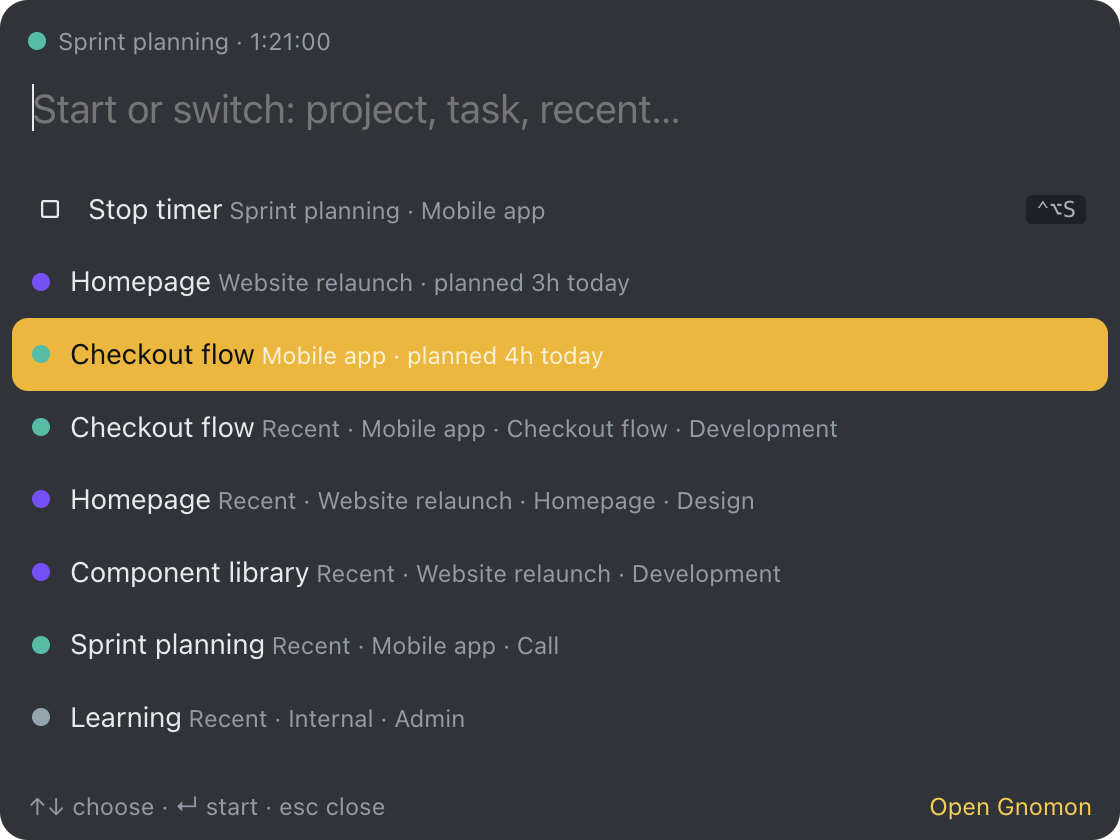
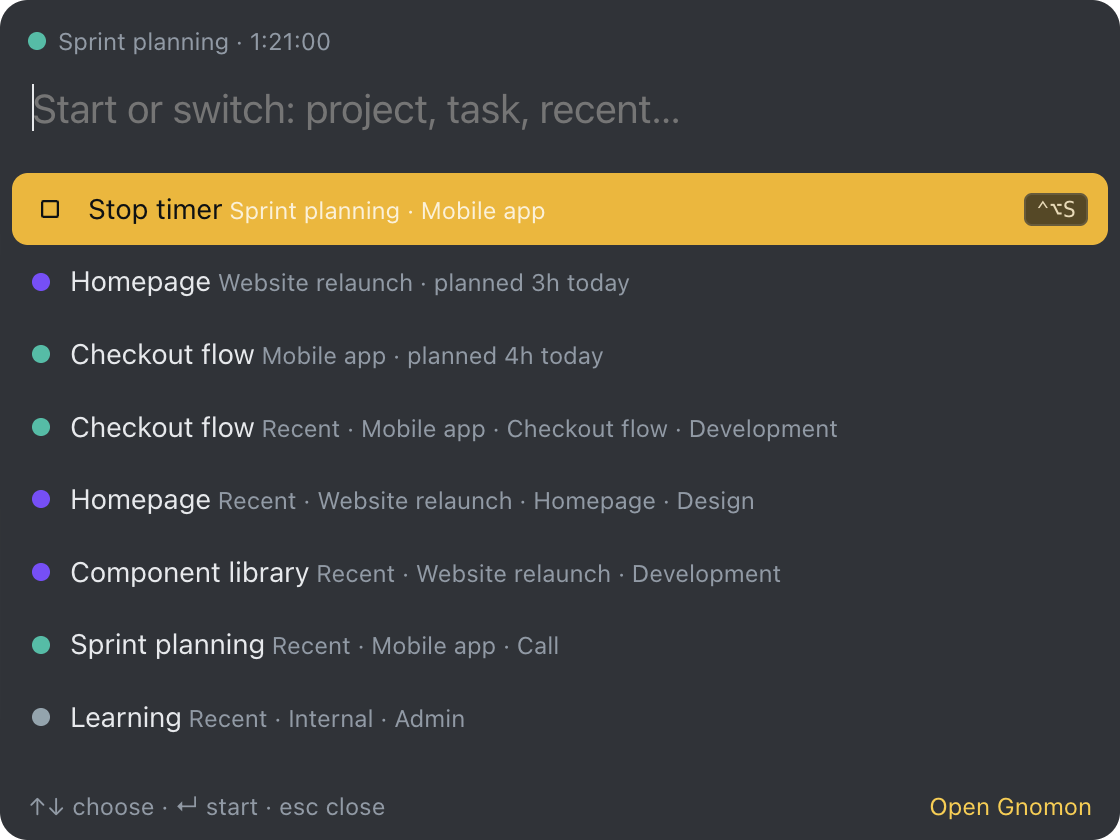
README: dark close-up hero shots for each feature, screenshot gallery below
Adds scripts/hero-shots.cjs (3D tilt + depth of field from the demo screenshots)
and dark variants of the morning, week and phone screenshots.

Changed region(s): [[0.0, 0.1857, 1.0, 0.3095], [0.0, 0.3714, 1.0, 0.4643]]

diff --git a/README.md b/README.md
@@ -5,7 +5,7 @@
 <p align="center"><b>A calm work-hour tracker for your Mac.</b><br>
 Clock in and out, track your projects, catch up later, and always know your overtime balance.</p>
 
-<p align="center"><img src="docs/screenshots/track.png" width="820" alt="Gnomon: the Track page with a running timer, today's plan and entries"></p>
+<p align="center"><img src="docs/hero/hero-timer.jpg" width="880" alt="Gnomon: a running timer, close up"></p>
 
 *A gnomon is the pointer on a sundial, the oldest time-tracking tool there is.*
 
@@ -17,7 +17,7 @@ Your workday in two clicks. Press **Start day** when you sit down, take a **Brea
 from the sidebar, the menu bar or a keyboard shortcut. Forgot to clock out? Gnomon closes the day at midnight and asks
 the next morning when you actually left.
 
-<img src="docs/screenshots/morning.png" width="820" alt="Morning: not clocked in yet, Start day button and today's plan">
+<img src="docs/hero/hero-start-day.jpg" width="880" alt="Start day button in the sidebar">
 
 ### 2. Track the projects you're on
 
@@ -25,7 +25,7 @@ Your plan from **Float** becomes today's list: start a timer on a planned projec
 any app and type a few letters. Switch the activity (Design, Call, Workshop…) without stopping the clock, and see how far
 each project is against its plan. Weblog support follows once its API is available.
 
-<img src="docs/screenshots/quick-switcher.png" width="520" alt="Quick switcher: start or switch a timer from any app">
+<img src="docs/screenshots/quick-switcher.png" width="560" alt="Quick switcher: start or switch a timer from any app">
 
 ### 3. Catch up later
 
@@ -33,9 +33,7 @@ Not a live tracker? No problem. Fill in a whole week afterwards: type hours stra
 yesterday, **copy last week**, or **fill from plan** to turn your Float plan into entries. Each day shows what's still
 open against your plan.
 
-<img src="docs/screenshots/week.png" width="820" alt="Week timesheet: hours per project and day, planned hours in grey">
-
-<img src="docs/screenshots/week-day.png" width="820" alt="A day in detail: in/out, breaks, entries, and what's still open against the plan">
+<img src="docs/hero/hero-week.jpg" width="880" alt="Week timesheet with copy last week and fill from plan">
 
 ### 4. Always know your balance
 
@@ -43,12 +41,22 @@ Gnomon counts every workday against your daily target and keeps a running **over
 Vacation and sick days from **Personio** don't count against you; *overtime off* days use the balance. One number tells
 you where you stand.
 
-<img src="docs/screenshots/reports.png" width="820" alt="Reports: overtime balance per month and tracked time per day">
+<img src="docs/hero/hero-balance.jpg" width="880" alt="Overtime balance per month">
 
 ### On your phone too
 
 A small web app on your own server (see [server/README.md](server/README.md)): clock in on the way in, start or switch a
 timer, and check your week. Pair a phone by scanning a QR code from the Mac app.
+
+<img src="docs/hero/hero-phone.jpg" width="880" alt="The phone web app: today and this week">
+
+## Screenshots
+
+| | |
+|---|---|
+| <img src="docs/screenshots/track.png" alt="Track: running timer, today's plan and entries"> | <img src="docs/screenshots/morning.png" alt="Morning: not clocked in yet"> |
+| <img src="docs/screenshots/week.png" alt="Week timesheet"> | <img src="docs/screenshots/week-day.png" alt="A day in detail, with what's still open against the plan"> |
+| <img src="docs/screenshots/reports.png" alt="Reports with the overtime balance"> | <img src="docs/screenshots/quick-switcher.png" alt="Quick switcher (⌃⌥P from any app)"> |
 
 <p>
 <img src="docs/screenshots/phone-today.png" width="260" alt="Phone: today with a running timer">
@@ -56,7 +64,9 @@ timer, and check your week. Pair a phone by scanning a QR code from the Mac app.
 <img src="docs/screenshots/phone-week.png" width="260" alt="Phone: this week in dark mode">
 </p>
 
-<sub>Screenshots use made-up demo data (`scripts/demo-data.cjs`); retake them with `sh scripts/screenshots.sh`.</sub>
+<sub>All pictures use made-up demo data (`scripts/demo-data.cjs`). Retake them with `sh scripts/screenshots.sh` and
+`node node_modules/electron/cli.js scripts/phone-screenshots.cjs`, then render the close-ups with
+`node node_modules/electron/cli.js scripts/hero-shots.cjs`.</sub>
 
 ## All features
 
